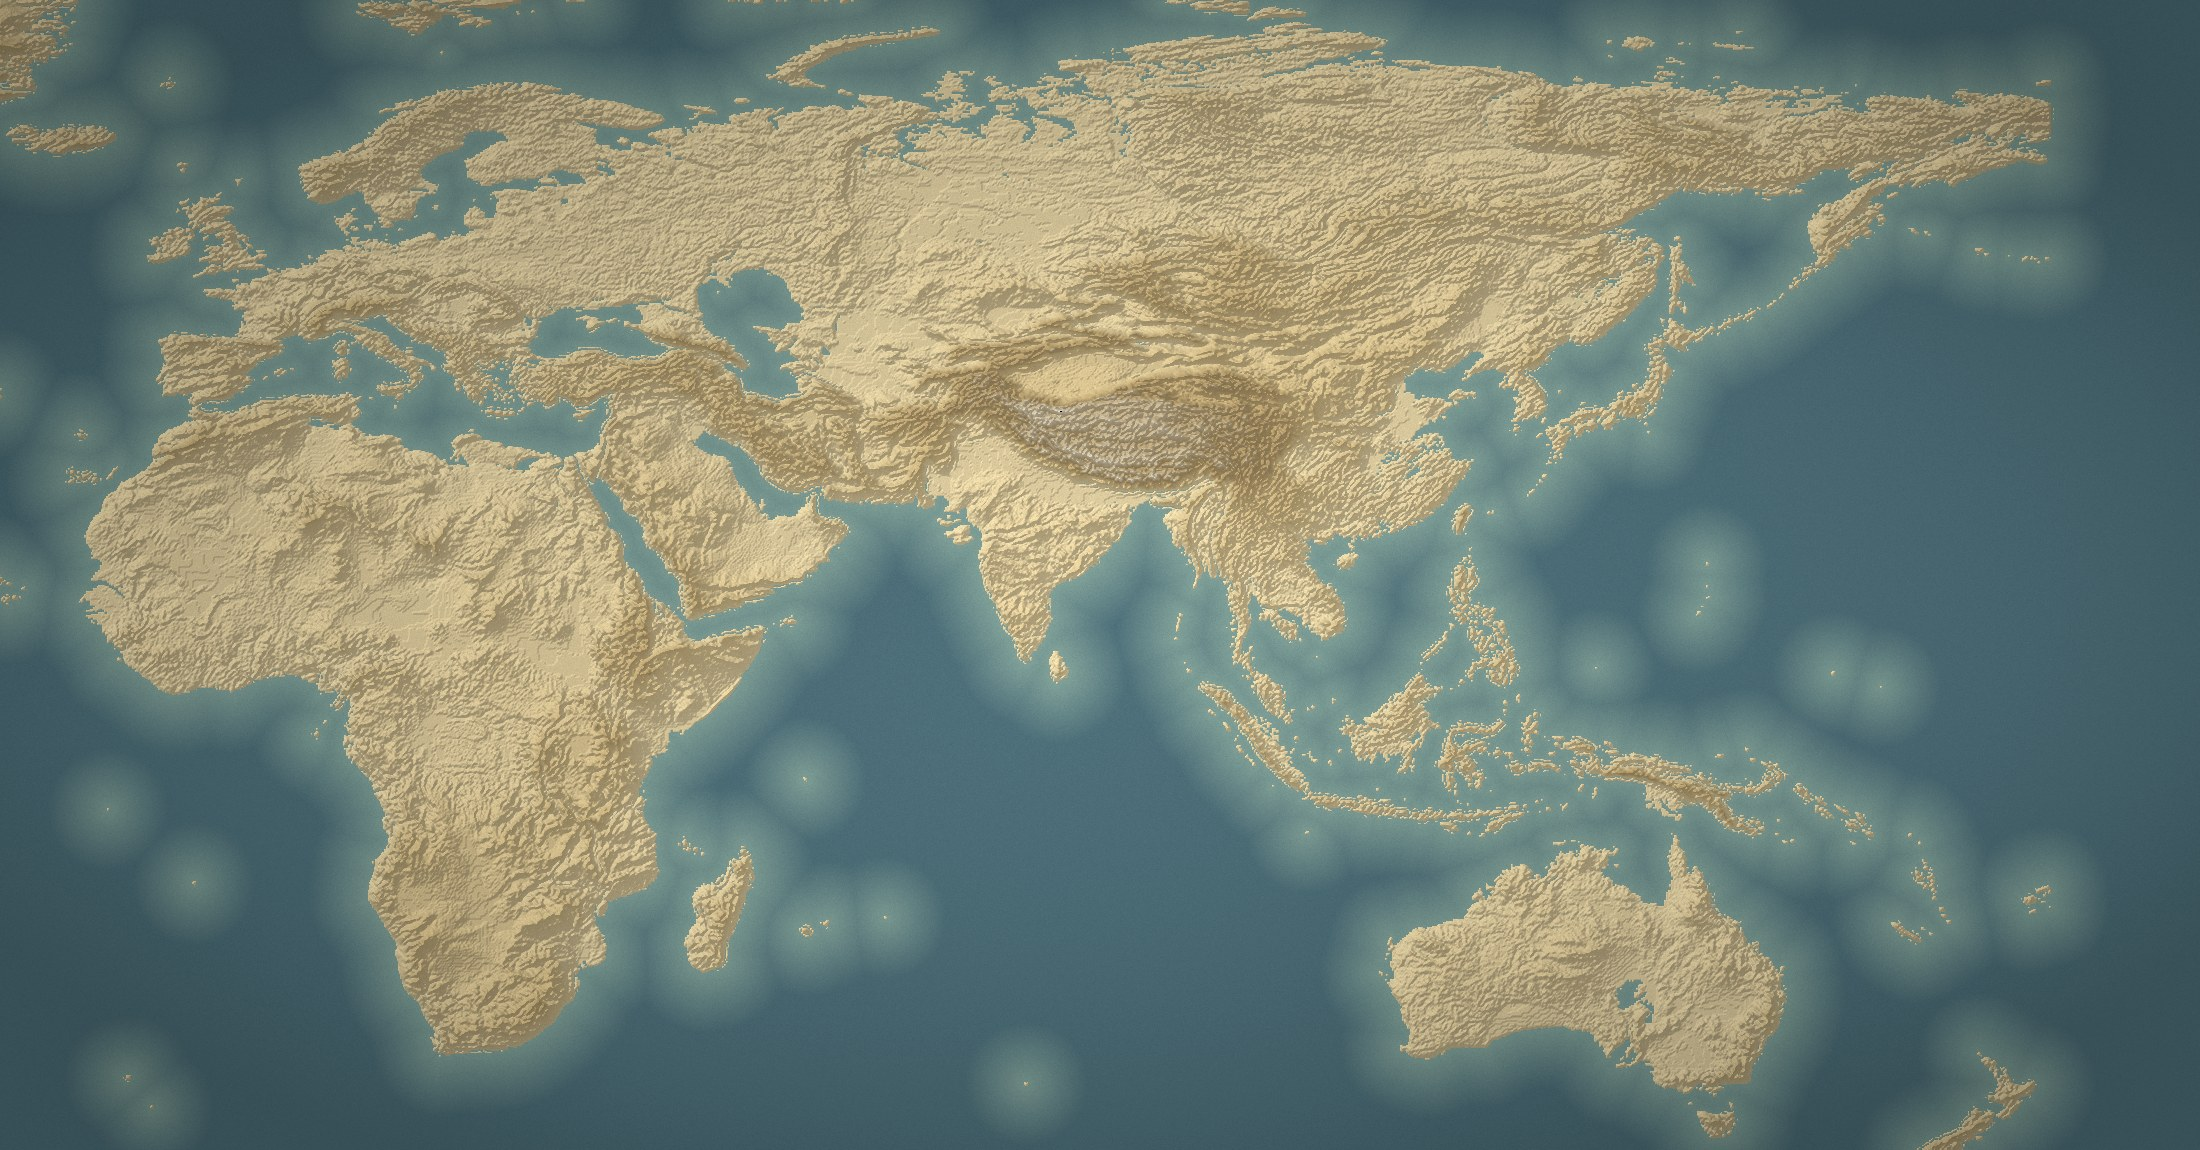
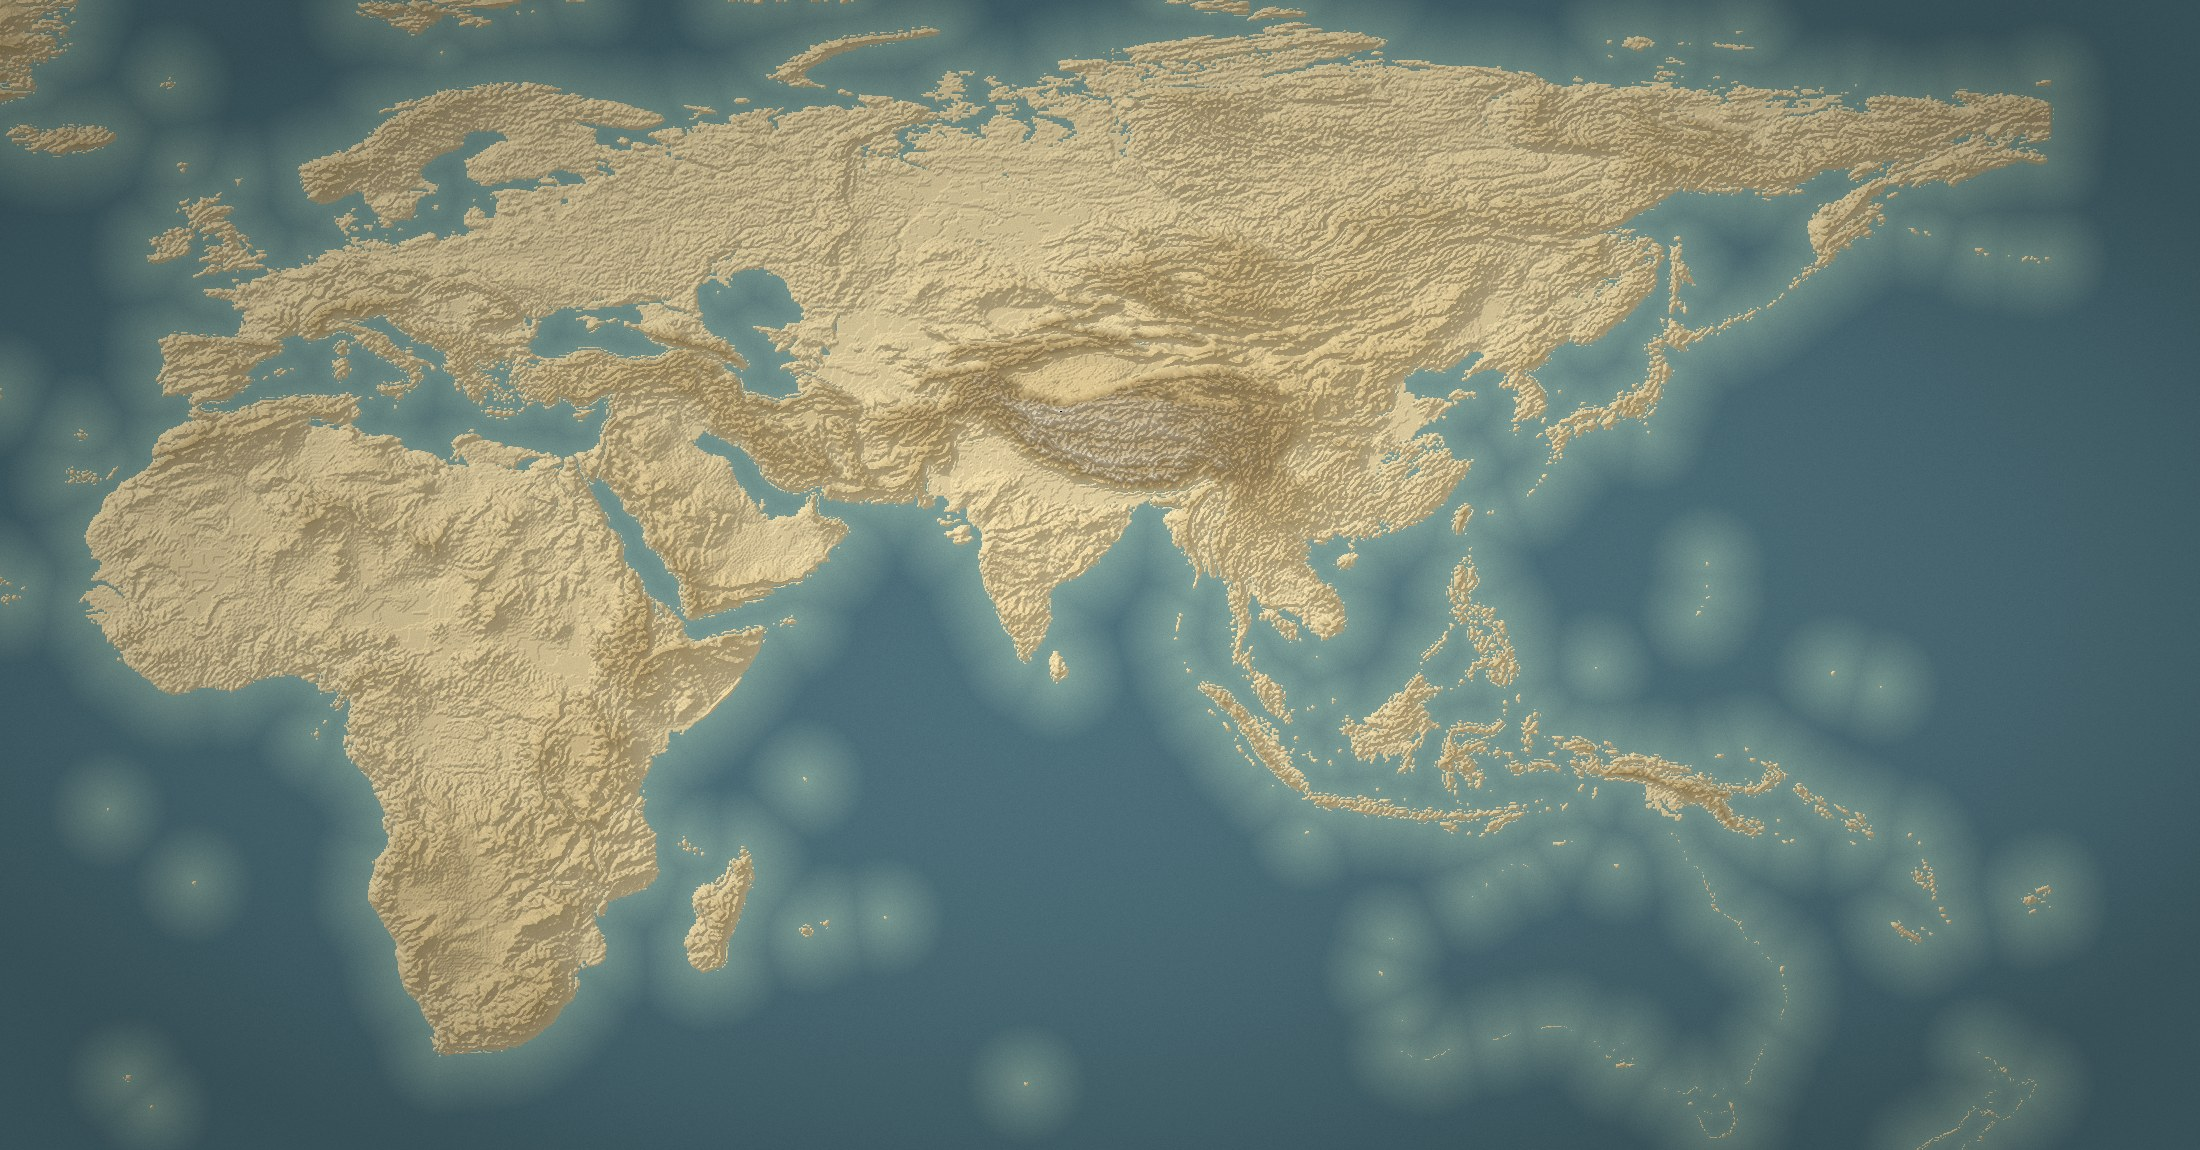
Full-screen map: no topbar/title; Australia undiscovered

Changed region(s): [[0.6182, 0.7304, 0.8345, 1.0], [0.8655, 0.913, 0.9273, 1.0]]

diff --git a/src/EmpireSim/wwwroot/css/app.css b/src/EmpireSim/wwwroot/css/app.css
@@ -96,6 +96,18 @@ h2 { font-size: 1rem; color: var(--gold); margin: 4px 0 8px; font-weight: normal
 
 /* ---- map page ---- */
 .map-page { max-width: 640px; margin: 0 auto; padding: 0 12px 32px; }
+/* Full-screen war-room map: no chrome, no padding. */
+main.map-full { padding: 0; margin: 0; }
+main.map-full .content-map { padding: 0; margin: 0; max-width: none; }
+main.map-full .map-page { max-width: none; margin: 0; padding: 0; height: 100dvh; }
+main.map-full .map-canvas {
+    width: 100%; height: 100dvh; min-height: 0;
+    border: none; border-radius: 0;
+}
+main.map-full .province-card {
+    position: fixed; left: 10px; right: 10px; bottom: 10px; z-index: 50;
+    margin-top: 0; max-height: 45dvh; overflow-y: auto;
+}
 .map-toolbar {
     display: flex; justify-content: space-between; align-items: center;
     padding: 10px 2px;
